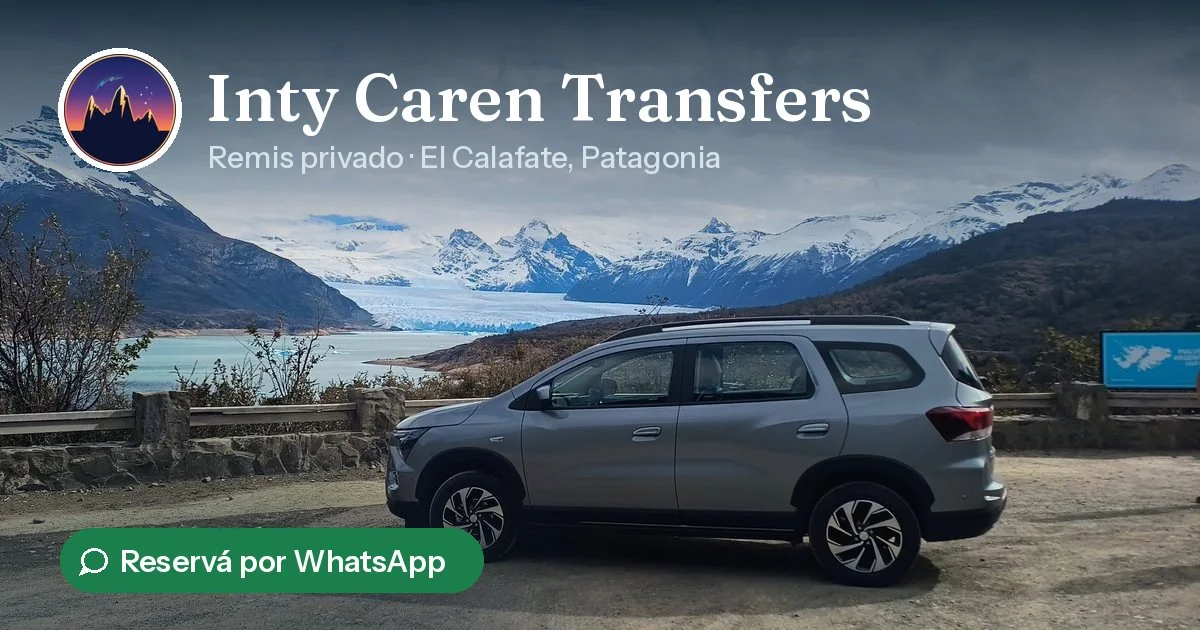
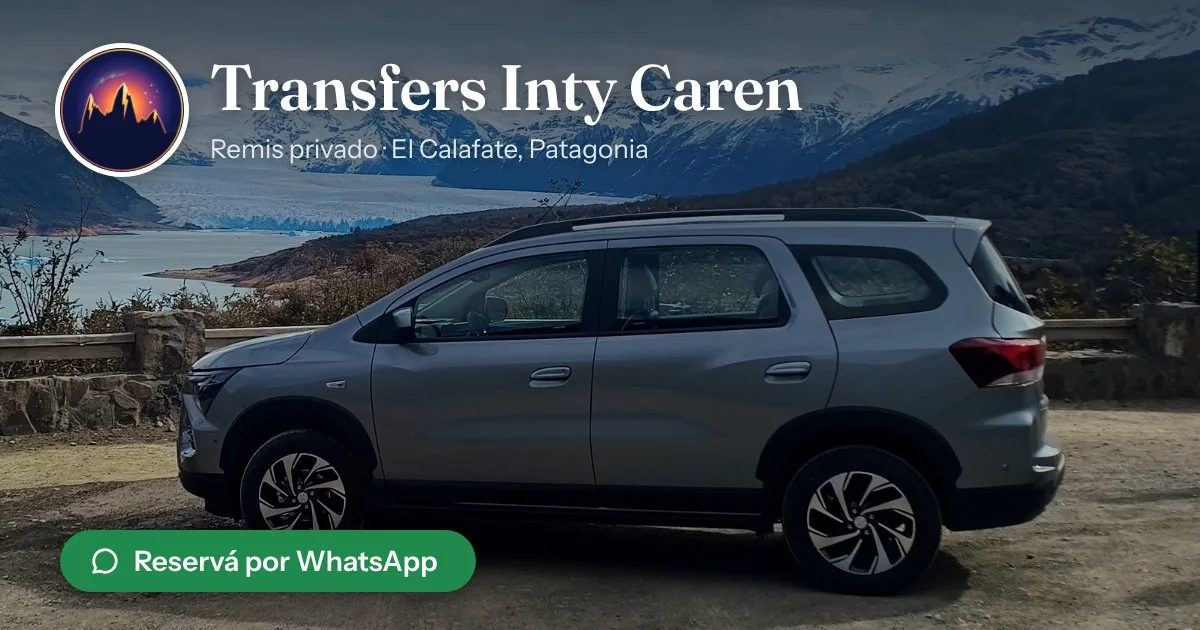
fix: Inty Caren Transfers pasa a llamarse Transfers Inty Caren
El proyecto se renombro y ademas cambio de dominio. Se actualizan las
tres cosas: el titulo de la tarjeta, el link a
transfersintycaren.vercel.app, y la portada, que seguia mostrando el
nombre viejo.

La portada nueva sale de la imagen de Open Graph del propio sitio -la
regla de siempre-, redimensionada a 1200px y a WebP calidad 84: 153 KB
a 97 KB.

diff --git a/src/data/projects.js b/src/data/projects.js
@@ -40,7 +40,7 @@ export const proyectos = [
   {
     id:       "intycaren",
     tipo:     "trabajo",
-    titulo:   "Inty Caren Transfers",
+    titulo:   "Transfers Inty Caren",
     subtitulo: {
       en: "web · transfers · patagonia",
       es: "web · traslados · patagonia",
@@ -52,7 +52,7 @@ export const proyectos = [
       pt: "Site para um servico de traslado privado saindo de El Calafate. Estatico, em tres idiomas, com destinos, veiculos, mapa e perguntas frequentes; as reservas vao pelo WhatsApp.",
     },
     imagen:   "intycaren-cover.webp",
-    link:     "https://intycaren.vercel.app",
+    link:     "https://transfersintycaren.vercel.app",
     featured: false,
   },
 
